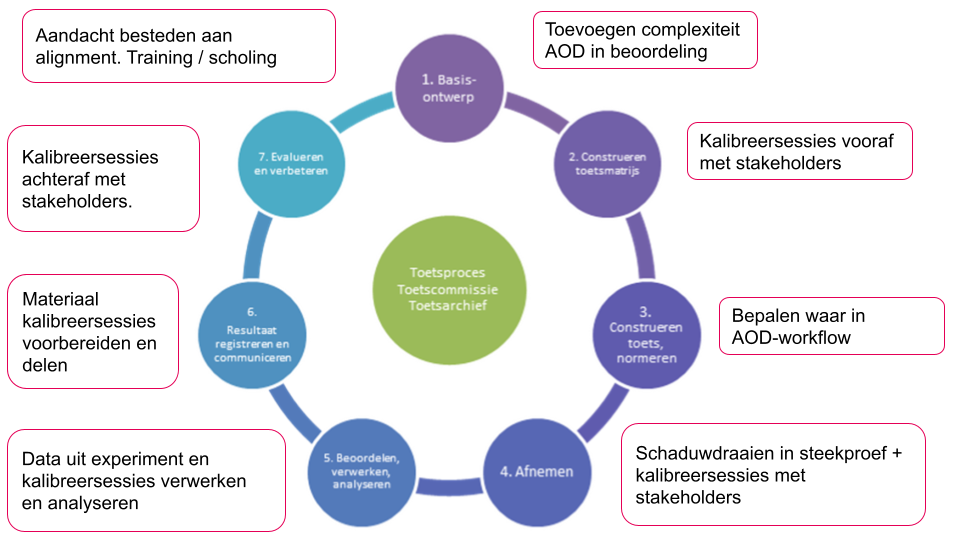
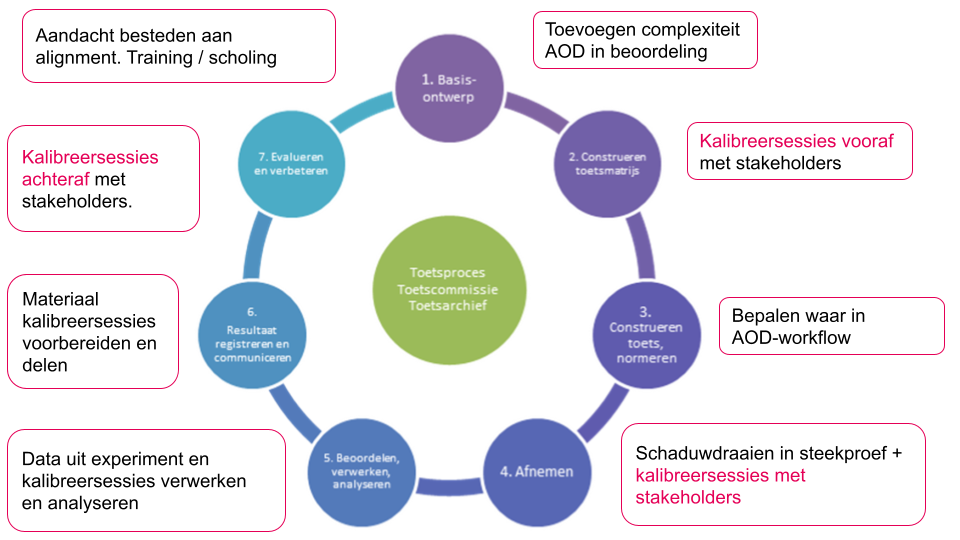
Toetscyclus beschreven

Changed region(s): [[0.6562, 0.8593, 0.8438, 0.9481], [0.7188, 0.237, 0.9375, 0.2963], [0.0, 0.2667, 0.1562, 0.3556]]

diff --git a/reflectie.html b/reflectie.html
@@ -87,7 +87,7 @@ ul.task-list{list-style: none;}
 <h3 class="anchored" data-anchor-id="love-wat-vond-ik-prettig">Love: Wat vond ik prettig?</h3>
 <section id="werken-in-co-creatie" class="level4">
 <h4 class="anchored" data-anchor-id="werken-in-co-creatie">Werken in co-creatie</h4>
-<p>Omdat Jeroen en ik het vaak hebben over verbetermogelijkheden voor het afstudeertraject, was ik blij met de gelegenheid om er nu ook eens echt samen aan te mogen werken. Wat ik heel erg nodig heb voor een goede samewerking zijn partners met weinig ego (of die deze uit kunnen zetten) en met een “JA, EN”-houding. Jeroen is zo een persoon en daarom konden we heel snel schakelen en resultaten boeken. Ik ben heel erg tevreden over de uitkomsten tot nu toe en heb heel veel zin om dit samen met Jeroen verder uit te werken.</p>
+<p>Omdat Jeroen en ik het vaak hebben over verbetermogelijkheden voor het afstudeertraject, was ik blij met de gelegenheid om er nu ook eens echt samen aan te mogen werken. Wat ik heel erg nodig heb voor een goede samenwerking zijn partners met weinig ego (of die deze uit kunnen zetten) en met een “JA, EN”-houding. Jeroen is zo een persoon en daarom konden we heel snel schakelen en resultaten boeken. Ik ben heel erg tevreden over de uitkomsten tot nu toe en heb heel veel zin om dit samen met Jeroen verder uit te werken.</p>
 </section>
 <section id="competente-professional-als-uitgangspunt" class="level4">
 <h4 class="anchored" data-anchor-id="competente-professional-als-uitgangspunt">Competente professional als uitgangspunt</h4>
@@ -120,6 +120,7 @@ ul.task-list{list-style: none;}
 </section>
 <section id="zel-com-model" class="level4">
 <h4 class="anchored" data-anchor-id="zel-com-model">Zel-com-model</h4>
+<p><img src="zelcom.png" class="img-fluid"></p>
 <p>We hebben het Zel-com-model toegepast op onze casus. Echter de discussie rondom de zwaarte van opdrachten vind op meerdere plekken in het curriculum plaats en ook daar kan het model helpen betere afwegingen te maken.</p>
 </section>
 <section id="hogere-authenticiteit-betekent-lagere-subjectiviteit" class="level4">
@@ -128,10 +129,11 @@ ul.task-list{list-style: none;}
 </section>
 <section id="alternatieve-modellen-bloom" class="level4">
 <h4 class="anchored" data-anchor-id="alternatieve-modellen-bloom">Alternatieve modellen Bloom</h4>
-<p>Ik maak veel gebruik van Bloom bij het formuleren van leeruitkomsten. Echter het komt wel eens voor dat de formulering van niveaus en taxonomieën niet lijken te passen bij de bedoeling van een module. Nu begrijp ik dat dit komt dooordat er verschillende categorieën doelstellingen zijn. Ik ga dit zeker nader uitzoeken en gebruiken.</p>
+<p>Ik maak veel gebruik van Bloom bij het formuleren van leeruitkomsten. Echter het komt wel eens voor dat de formulering van niveaus en taxonomieën niet lijken te passen bij de bedoeling van een module. Nu begrijp ik dat dit komt doordat er verschillende categorieën doelstellingen zijn. Ik ga dit zeker nader uitzoeken en gebruiken.</p>
 </section>
 <section id="bepalen-grens-voldoende-onvoldoende" class="level4">
 <h4 class="anchored" data-anchor-id="bepalen-grens-voldoende-onvoldoende">Bepalen grens voldoende / onvoldoende</h4>
+<p><img src="smart.png" class="img-fluid"></p>
 <p>Dit heeft een relatie met het holistisch benaderen van toetsing. Het appelleert heel erg aan mijn behoefte om vanuit eigen professionaliteit te kunnen werken en oordelen.</p>
 </section>
 </section>
@@ -162,13 +164,18 @@ ul.task-list{list-style: none;}
 <p>Een afstudeeropdracht wordt bij onze opleiding altijd uitgevoerd in de praktijk. Dit maakt het per definitie onmogelijk om een beheersbare toetsomgeving te creëren waarin iedere student gegarandeerd objectief getoetst wordt. Er is dus sprake van een hoge mate van zowel authenticiteit als subjectiviteit.</p>
 <p><img src="miller.png" class="img-fluid"></p>
 <p>Één van de factoren die de subjectiviteit van de AOD als toets kan verhogen, is een verschil in complexiteit van opdrachten.</p>
-<p><img src="zelcom.png" class="img-fluid"></p>
 <p>Op dit moment zijn er criteria geformuleerd om een basiscomplexiteit van de opdracht te borgen. Deze criteria gaan over de praktijkomgeving, de beslissingslaag en de mate van zelfstandig acteren. Ondanks deze kwaliteitscriteria blijkt uit ervaring dat er toch nog veel variantie is qua zwaarte van de opdracht.</p>
 <p><img src="complexiteit1.png" class="img-fluid"> We hebben onze eigen criteria vergeleken met hetgeen op landelijk niveau over dit onderwerp beschreven wordt en kwamen tot de conclusie dat op een aantal punten kwaliteitsverbetering wenselijk is.</p>
 <p><img src="loobk.png" class="img-fluid"></p>
 </section>
 <section id="sec-ontwikkeling" class="level3">
 <h3 class="anchored" data-anchor-id="sec-ontwikkeling">Continue ontwikkeling toetsbekwaamheid</h3>
+<p>Om een beter gevoel te krijgen bij de door de LOO geformuleerde set van criteria rondom complexiteit hebben we vanuit onze eigen ervaring casussen opgehaald en deze volgens de criteria gewaardeerd.</p>
+<p><img src="criterium.png" class="img-fluid"></p>
+<p>Na deze exercitie ontstond het idee om deze werkwijze te gebruiken tijdens een kalibreersessie om data op te halen bij onze stakeholders. Daarmee kunnen we vervolgens een goed beeld vormen omtrent de omvang van het probleem en de meest belangrijke aandachtspunten.</p>
+<p>De probleemdefinitie vormt het uitgangspunt voor een tweede kalibreersessies. In deze sessie laten we dezelfde groep stakeholders een aantal ontwerpen voor een oplossing generenen. De afzonderlijke ontwerpen worden vergeleken en in een volgende ronde worden ze verwerkt in een aantal definitieve ontwerpen. Deze oplossingen zullen parallel worden getest in de praktijk. De testopzet zal ook weer via een aparte kalibreersessie worden bepaald.</p>
+<p><img src="sessions.png" class="img-fluid"></p>
+<p>Nadat de oplossingen zijn getest, zullen de testresultaten worden geanalyseerd en gewaardeerd. De aandachtspunten die hieruit volgen zullen worden gebruikt bij de start van een nieuwe verbetercysclus.</p>
 <p><img src="toetscyclus.png" class="img-fluid"></p>
 </section>
 </section>
